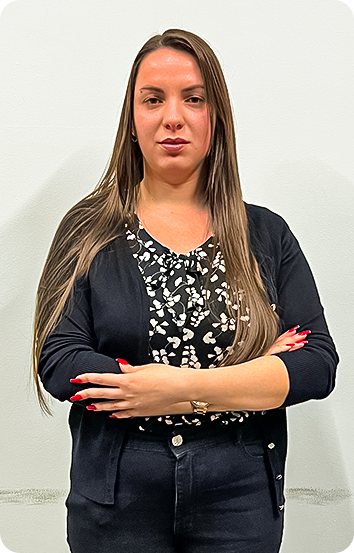
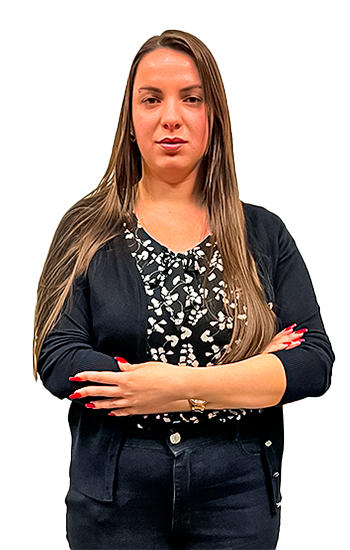
final version

diff --git a/index.html b/index.html
@@ -19,7 +19,7 @@
 
 <body>
   <div id="float-btn">
-    <a href="#"><img src="assets/img/whatsapp.png" alt="Contatar pelo whatsapp"></a>
+    <a href="#" ><img src="assets/img/whatsapp.png" alt="Contatar pelo whatsapp"></a>
   </div>
 
   <main>
@@ -170,7 +170,7 @@
           </div>
         </div>
         <div class="person">
-          <img src="assets/img/Henrique.png" alt="Sócia Marilene Teixeira">
+          <img src="assets/img/Marilene.png" alt="Sócia Marilene Teixeira">
           <div class="person-info">
             <h3>Marilene Teixeira</h3>
             <p>Sócia Proprietária</p>

diff --git a/assets/css/styles.css b/assets/css/styles.css
@@ -473,6 +473,7 @@ nav {
 
 .person img {
   width: 50%;
+  border-radius: 10px
 }
 
 .person-info {
